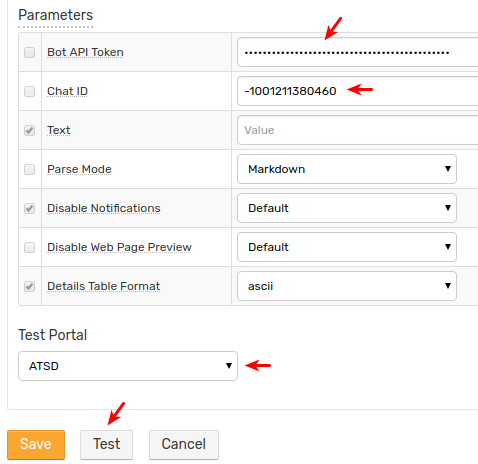
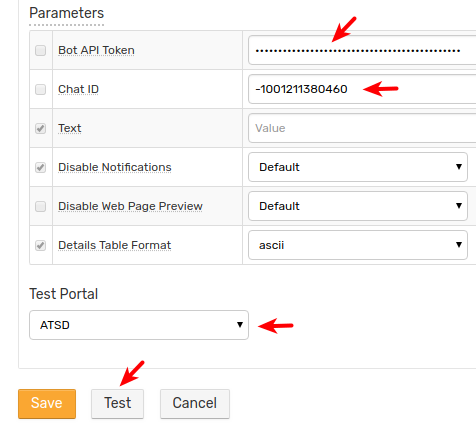
parse mode setting removed

diff --git a/rule-engine/notifications/telegram.md b/rule-engine/notifications/telegram.md
@@ -110,7 +110,6 @@ NGINX API Gateway Path for Telegram:
 |Bot API Token|Each bot is given a unique authentication token when it is created.|
 |Chat ID|Unique identifier for the target chat or the target channel.|
 |Text|Message text to be sent. This field should be left blank so it can be customized in the rule editor.|
-|Parse Mode|Send [Markdown](https://core.telegram.org/bots/api#markdown-style) or [HTML](https://core.telegram.org/bots/api#html-style) if you want show bold, italic, fixed-width text or inline URLs in your message.|
 |Disable Notifications|Sends the message silently. Users will receive a notification with no sound.|
 |Disable Web Page Preview|Disables link previews for links in this message.|
 |Details Table Format|The default format for the alerts detail table.|
@@ -141,7 +140,6 @@ In order to receive incoming messages, configure an [outgoing webhook](outgoing-
 ```ls
   *[${status}]* ${ruleLink} for ${entity} ${tags}
 ```
-> Note for proper links resolving check that [_Parse Mode_](#notification-settings) set to Markdown or HTML.
 
 * Save the rule by clicking on the **Save** button.
 
